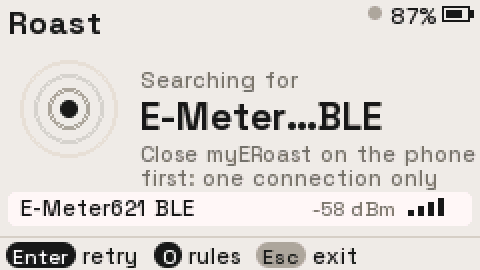
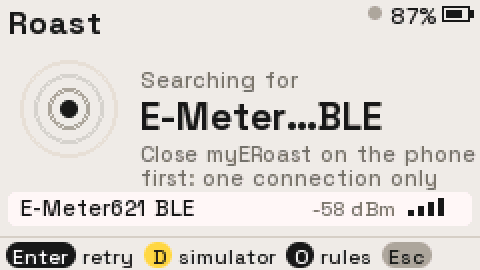
Bring the simulator back
The thermal model moves back from the preview into the firmware
(roast_link_sim.cpp, CreateSimLink): D on the Connect page or Rules >
MODE > simulator switches to it while the machine is idle, a yellow SIM tag
shows in the status corner, and network setup returns to it when it was on.
The desktop preview drives the app with it again and shoots the simulator
switch. README EN/ZH and the connect screenshot updated.

Changed region(s): [[0.1562, 0.8889, 0.9062, 1.0]]

diff --git a/tools/preview/preview.cpp b/tools/preview/preview.cpp
@@ -1,10 +1,10 @@
-// Desktop preview: runs the real Roast app (app_roast*.cpp, curves, session) against a fake HAL, a fake clock and a
-// fake roaster, drives it with scripted key presses through a whole roast, and writes every page as a 240x135 PNG.
+// Desktop preview: runs the real Roast app (app_roast*.cpp, curves, session, simulator) against a fake HAL and a
+// fake clock, drives it with scripted key presses through a whole roast, and writes every page as a 240x135 PNG.
 //
 //   tools/preview/build.sh && build_preview/preview build_preview/shots
 //
-// The "BLE" link here is preview_roaster.cpp (a thermal model) under the real roaster's name, so pages look like the
-// real thing; nothing talks to hardware.
+// The "BLE" link here is the built-in simulator (roast_link_sim.cpp) under the real roaster's name, so pages look like
+// the real thing; nothing talks to hardware.
 #include <apps/app_roast/app_roast.h>
 #include <apps/app_roast/roast_debug.h>
 #include <apps/app_roast/roast_link.h>
@@ -34,20 +34,16 @@ void DebugPollMain() {}
 static bool g_bleLost        = false;
 static uint32_t g_bleReadyIn = 2500;
 
-namespace roast {
-RoasterLink* CreateFakeRoaster();  // preview_roaster.cpp
-}
-
 struct PreviewBle : roast::RoasterLink {
-    std::unique_ptr<roast::RoasterLink> fake{roast::CreateFakeRoaster()};
+    std::unique_ptr<roast::RoasterLink> sim{roast::CreateSimLink()};
     uint32_t readyAt = 0;
     roast::RegSnapshot last;
     bool begin() override
     {
         readyAt = g_ms + g_bleReadyIn;
-        return fake->begin();
+        return sim->begin();
     }
-    void end() override { fake->end(); }
+    void end() override { sim->end(); }
     roast::LinkState state() override
     {
         if (g_ms < readyAt) return roast::LinkState::Scanning;
@@ -59,14 +55,14 @@ struct PreviewBle : roast::RoasterLink {
     roast::RegSnapshot snapshot() override
     {
         if (g_bleLost) return last;  // frozen at the moment the link dropped
-        last          = fake->snapshot();
+        last          = sim->snapshot();
         last.lastRxMs = g_ms;
         return last;
     }
-    uint32_t command(const std::vector<roast::RegWrite>& w) override { return fake->command(w); }
-    roast::TxStatus txStatus(uint32_t id) override { return fake->txStatus(id); }
-    void setHeat(uint16_t raw) override { fake->setHeat(raw); }
-    void clearQueue() override { fake->clearQueue(); }
+    uint32_t command(const std::vector<roast::RegWrite>& w) override { return sim->command(w); }
+    roast::TxStatus txStatus(uint32_t id) override { return sim->txStatus(id); }
+    void setHeat(uint16_t raw) override { sim->setHeat(raw); }
+    void clearQueue() override { sim->clearQueue(); }
 };
 roast::RoasterLink* roast::CreateBleLink() { return new PreviewBle(); }
 
@@ -318,7 +314,8 @@ int main(int argc, char** argv)
 
     // Wi-Fi & Dropbox setup: the rules row, then a whole (simulated) pairing
     press("o");
-    for (int i = 0; i < 30; i++) press("down", 30);  // network is the last row
+    for (int i = 0; i < 30; i++) press("down", 30);  // the last row (simulator), then up to network
+    press("up", 60);
     shot("rules_sync");
     press("enter");
     step(600);
@@ -335,6 +332,7 @@ int main(int argc, char** argv)
     step(3000);  // back on Connect, then Prep once the (preview) roaster answers
     press("o");
     for (int i = 0; i < 30; i++) press("down", 30);
+    press("up", 60);
     shot("rules_sync_saved");
     // Firmware update: the rules row, the download from GitHub (simulated), then what to do in the Launcher
     for (int i = 0; i < 30; i++) press("up", 30);  // firmware is the first row
@@ -417,6 +415,12 @@ int main(int argc, char** argv)
     step(3500);
     shot("prep_after");
 
+    press("o");
+    for (int i = 0; i < 30; i++) press("down", 30);  // simulator, the last row
+    press("enter");
+    shot("rules_simulator");
+    press("esc");
+    shot("prep_simulator");
     press("esc");
     shot("exit_confirm");
     return 0;

diff --git a/main/apps/app_roast/app_roast.cpp b/main/apps/app_roast/app_roast.cpp
@@ -159,14 +159,14 @@ void AppRoast::onClose()
     esp_deep_sleep_start();
 }
 
-void AppRoast::startLink()
+void AppRoast::startLink(bool sim)
 {
     if (_link) {
         g_activeLink = nullptr;
         _link->end();
         _link.reset();
     }
-    _link.reset(CreateBleLink());
+    _link.reset(sim ? CreateSimLink() : CreateBleLink());
     g_activeLink = _link.get();
     if (!_link->begin()) toast("BLE init failed", ui::DROP);
     _linkState = _link->state();
@@ -730,6 +730,10 @@ void AppRoast::onKey(const Keyboard::KeyEvent_t& e)
 
 bool AppRoast::keyConnect(int code)
 {
+    if (code == KEY_D) {
+        setSimulator(true);
+        return true;
+    }
     if (code == KEY_O) {  // rules, including Wi-Fi & Dropbox setup, also while the roaster is off
         openSettings();
         return true;
@@ -743,6 +747,23 @@ bool AppRoast::keyConnect(int code)
         return true;
     }
     return false;
+}
+
+// Simulator on/off. Only from Connect and Rules, and never while the machine runs: during a roast D means "drop".
+void AppRoast::setSimulator(bool on)
+{
+    if (_fanRunning || _phase != Phase::Idle) {
+        toast("Stop the machine first", WARN, 2500);
+        return;
+    }
+    if (on) {
+        startLink(true);
+        if (_screen == Screen::Connect) _screen = Screen::Prep;
+        toast("Simulator: no roaster", SIM, 3000);
+    } else {
+        startLink(false);
+        _screen = Screen::Connect;
+    }
 }
 
 void AppRoast::openBatch(int field)
@@ -1368,6 +1389,11 @@ std::vector<AppRoast::RuleRow> AppRoast::ruleRows()
     netRow.label   = "network";
     netRow.network = true;
     v.push_back(netRow);
+    group("MODE", SIM);
+    RuleRow sim;
+    sim.label     = "simulator";
+    sim.simToggle = true;
+    v.push_back(sim);
     return v;
 }
 
@@ -1391,6 +1417,10 @@ bool AppRoast::keySettings(const Keyboard::KeyEvent_t& e, int code)
                 if (_setSel < n - 1) _setSel++;
                 return true;
             case KEY_ENTER:
+                if (r.simToggle) {
+                    setSimulator(!(_link && _link->isSimulated()));
+                    return true;
+                }
                 if (r.network) {
                     openNetwork();
                     return true;
@@ -1742,6 +1772,7 @@ void AppRoast::openNetwork()
         return;
     }
     releaseExternal();
+    _netWasSim = _link && _link->isSimulated();
     if (_link) {
         g_activeLink = nullptr;
         _link->clearQueue();
@@ -1774,7 +1805,7 @@ void AppRoast::closeNetwork()
         esp_restart();
     }
     refreshNetSummary();
-    startLink();
+    startLink(_netWasSim);
     _screen = Screen::Connect;  // pollLink() moves on to Prep when the roaster answers
 }
 

diff --git a/main/apps/app_roast/app_roast_ui.cpp b/main/apps/app_roast/app_roast_ui.cpp
@@ -4,7 +4,7 @@
  *  - one hero number per screen; secondary numbers are small cards with a colour bar
  *  - the bottom row always shows the keys that work right now; it turns into a full-width colour bar only when
  *    something needs a hand (green = drop window, red = act now, yellow = attention)
- *  - top-right status corner: battery, link dot, missing SD
+ *  - top-right status corner: battery, link dot / SIM tag, missing SD
  */
 #include "app_roast.h"
 #include "fonts/roast_fonts.h"
@@ -102,7 +102,7 @@ std::string mmss(int s)
 
 bool lightColour(uint32_t c)
 {
-    return c == DRY || c == WARN || c == ui::WHITE || c == CARD || c == FAINT;
+    return c == DRY || c == WARN || c == SIM || c == ui::WHITE || c == CARD || c == FAINT;
 }
 
 void dot(int cx, int cy, int r, uint32_t c)
@@ -374,10 +374,16 @@ int AppRoast::renderStatus(bool draw)
         x -= w + 4;
         if (draw) pill(x, 1, "SD", DROP);
     }
-    x -= 8;
-    uint32_t c = _linkState == LinkState::Ready ? GO : (_linkState == LinkState::Lost ? DROP : FAINT);
-    if (draw) dot(x, 6, 3, c);
-    x -= 3;
+    if (_link && _link->isSimulated()) {
+        int w = tw("SIM", F10()) + 8;
+        x -= w + 4;
+        if (draw) pill(x, 1, "SIM", SIM);
+    } else {
+        x -= 8;
+        uint32_t c = _linkState == LinkState::Ready ? GO : (_linkState == LinkState::Lost ? DROP : FAINT);
+        if (draw) dot(x, 6, 3, c);
+        x -= 3;
+    }
     return x;
 }
 
@@ -427,7 +433,7 @@ void AppRoast::renderConnect()
             text(W - 42, 104, std::to_string(r.rssi) + " dBm", F10(), DIM, Datum::middle_right);
         }
     }
-    keybar({{"Enter", INK, "retry"}, {"O", INK, "rules"}, {"Esc", FAINT, "exit"}});
+    keybar({{"Enter", INK, "retry"}, {"D", SIM, "simulator"}, {"O", INK, "rules"}, {"Esc", FAINT, "exit"}});
 }
 
 /* ================================================================== prep */
@@ -1221,6 +1227,7 @@ void AppRoast::renderSettings()
         if (r.toggle) return std::string(*r.toggle ? "on" : "off");
         if (r.network) return clipTo(_netSummary, W - 30 - tw(r.label, F12()), F12());
         if (r.firmware) return clipTo(update::Installed(), W - 30 - tw(r.label, F12()), F12());
+        if (r.simToggle) return std::string(_link && _link->isSimulated() ? "on" : "off");
         bool isInt = whole(r);
         float v0   = live ? _setVal[0] : (r.f[0] ? *r.f[0] : (float)*r.i[0]);
         if (r.f[1] || r.i[1]) {

diff --git a/main/apps/app_roast/roast_link_sim.cpp b/main/apps/app_roast/roast_link_sim.cpp
@@ -1,11 +1,12 @@
 /*
- * The desktop preview's roaster: answers like the E-Meter621 over BLE (same registers) with a thermal model, so the
- * preview can play a whole roast. Model fitted on R0012-R0014 and the 2026-11-14 Syrina D roast (roast_control.h
- * PlantModel): heater -> inlet air after a 5 s dead time and a 1 s lag, beans approach the air at 0.0204/s at
- * 53.5 % fan plus their own heating above 156 degC; more airflow dilutes the air and speeds up the transfer. The
- * roaster's own PID (register 15) is the form fitted on R0012-R0014: heat = 0.50 e + 0.036 integral(e dt) + 12 %.
+ * Simulated roaster for practising and testing without the machine (D on the Connect page, or Rules > simulator).
+ * Same register semantics as the BLE link. Thermal model fitted on R0012-R0014 and the 2026-11-14 Syrina D roast
+ * (roast_control.h PlantModel): heater -> inlet air after a 5 s dead time and a 1 s lag, beans approach the air at
+ * 0.0204/s at 53.5 % fan plus their own heating above 156 degC; more airflow dilutes the air and speeds up the
+ * transfer. The roaster's own PID (register 15) is the form fitted on R0012-R0014: heat = 0.50 e + 0.036
+ * integral(e dt) + 12 %. The desktop preview drives the app with it too.
  */
-#include <apps/app_roast/roast_link.h>
+#include "roast_link.h"
 #include <esp_timer.h>
 #include <cmath>
 #include <cstdlib>
@@ -13,7 +14,7 @@
 
 namespace roast {
 
-class FakeRoaster : public RoasterLink {
+class SimLink : public RoasterLink {
 public:
     bool begin() override
     {
@@ -31,7 +32,7 @@ public:
     }
     std::string deviceName() override
     {
-        return "E-Meter621 BLE";
+        return "Simulator";
     }
     std::string lastError() override
     {
@@ -39,7 +40,11 @@ public:
     }
     std::vector<ScanEntry> scanResults() override
     {
-        return {{"E-Meter621 BLE", -58}};
+        return {{"Simulator", -40}};
+    }
+    bool isSimulated() const override
+    {
+        return true;
     }
 
     RegSnapshot snapshot() override
@@ -188,9 +193,9 @@ private:
     }
 };
 
-RoasterLink* CreateFakeRoaster()
+RoasterLink* CreateSimLink()
 {
-    return new FakeRoaster();
+    return new SimLink();
 }
 
 }  // namespace roast

diff --git a/main/apps/app_roast/app_roast.h b/main/apps/app_roast/app_roast.h
@@ -76,6 +76,7 @@ private:
         bool* toggle   = nullptr;  // on/off row
         bool network   = false;    // opens the Wi-Fi & Dropbox setup screen
         bool firmware  = false;    // shows this build's version; Enter checks GitHub for a newer release
+        bool simToggle = false;    // simulator on/off
     };
     std::vector<RuleRow> ruleRows();
 
@@ -202,7 +203,9 @@ private:
     void openSettings();
 
     // ---- logic (app_roast.cpp)
-    void startLink();
+    void startLink(bool sim = false);
+    void setSimulator(bool on);
+    bool _netWasSim = false;  // reopen the simulator rather than BLE when network setup closes
     void pollLink();
     void handleKeys();
     void onKey(const Keyboard::KeyEvent_t& e);

diff --git a/main/apps/app_roast/roast_link.h b/main/apps/app_roast/roast_link.h
@@ -90,6 +90,10 @@ public:
     virtual std::string deviceName() = 0;
     virtual std::string lastError() = 0;
     virtual std::vector<ScanEntry> scanResults() = 0;
+    virtual bool isSimulated() const
+    {
+        return false;
+    }
 
     /// Copy of the register cache.
     virtual RegSnapshot snapshot() = 0;
@@ -112,5 +116,6 @@ public:
 };
 
 RoasterLink* CreateBleLink();
+RoasterLink* CreateSimLink();  // the thermal model: practise and test without the machine
 
 }  // namespace roast

diff --git a/main/apps/app_roast/roast_theme.h b/main/apps/app_roast/roast_theme.h
@@ -28,6 +28,7 @@ constexpr uint32_t DROP       = 0xE2303A;  // D D, X X, alarms
 constexpr uint32_t GO         = 0x1C9E58;  // charge, drop window, connected, saved
 constexpr uint32_t WARN       = 0xFAC42E;  // attention (ink text on it)
 constexpr uint32_t ROR        = 0x96928A;
+constexpr uint32_t SIM        = 0xFFD640;  // simulator tag
 // roast phases
 constexpr uint32_t PH_DRY = 0x9CC87C;
 constexpr uint32_t PH_MAI = 0xEABA48;

diff --git a/README.md b/README.md
@@ -35,6 +35,8 @@ opens in Artisan. It runs as an app under the community [Launcher](https://githu
   Both are required.
 - **Dropbox sync.** Curves live in Dropbox: synced at every boot, and every curve saved or deleted on the device is
   written to Dropbox at once. Each roast's logs are saved to Dropbox from its summary once the fan is off.
+- **Simulator.** A built-in thermal model for practising and testing without a machine; a yellow SIM tag shows when
+  it is on.
 - **Colour-keyed UI.** Colour = what it controls: fan blue, heat orange, curve/PID violet, marks yellow/brown, drop
   and alarms red, "go" green. The bottom row always shows the keys that work right now.
 
@@ -89,10 +91,12 @@ longer fits there; then delete the old Roast in Launcher before installing.
 ## Using it
 Turn the *myERoast* app off first: the roaster accepts only one BLE connection at a time.
 
-Roast scans for a device named `E-Meter…BLE` and connects on its own.
+Roast scans for a device named `E-Meter…BLE` and connects on its own. To try it without a machine, press **D** on
+the connect screen, or switch *simulator* on in Rules (**O**). The simulator can only be switched while the
+machine is not running.
 
 **H** shows the key map on every page, grouped by colour. The top-right corner shows the battery, the link (green
-dot) and a red **SD** tag without a card.
+dot, or the SIM tag) and a red **SD** tag without a card.
 
 ### Prep
 The page walks through four steps: curve → batch → fan → charge.
@@ -102,7 +106,7 @@ The page walks through four steps: curve → batch → fan → charge.
 | C | Curve library: Enter uses, E edits, N starts a new curve. |
 | E | Edit the selected curve (or start a new one). |
 | W / B | Batch sheet: green weight and bean name in one place (Tab switches field). |
-| O | Rules and alerts. |
+| O | Rules, alerts and simulator. |
 | S | Fan on, no heat. Use it to find a fan setting with cold air before adding beans. |
 | ↑ ↓ (`;` `.`) | Fan ±1 % (Aa held: ±0.1 %). While idle this changes only the start-fan preset. |
 | Enter | Charge: starts the timer and the Cardputer PID along the curve. Needs the fan on and a curve. |
@@ -485,8 +489,8 @@ CI does the same in the `espressif/idf:v5.4.2` container. Every push to main pub
 
 ### Desktop preview
 The UI can be checked without the device. `tools/preview/` compiles the real Roast code (pages, keys, curves,
-logs) against a stand-in HAL, a fake clock and a stand-in roaster (`preview_roaster.cpp`, a thermal model), plays a
-scripted roast and writes every page as a 240×135 PNG:
+logs and the simulator) against a stand-in HAL and a fake clock, plays a scripted roast on the simulator and writes
+every page as a 240×135 PNG:
 ```sh
 export IDF_PATH=~/esp/esp-idf-v5.4.2      # for cJSON
 tools/preview/build.sh && build_preview/preview build_preview/shots
